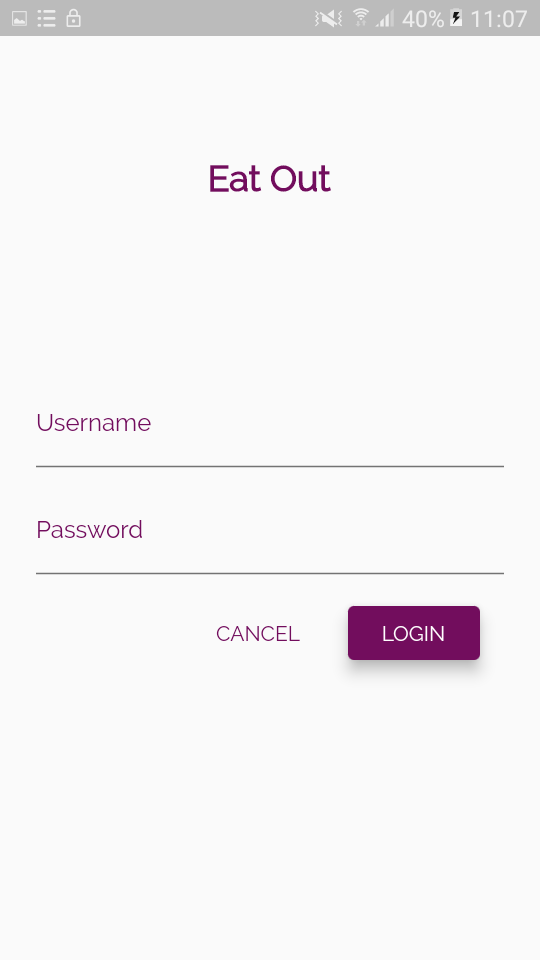
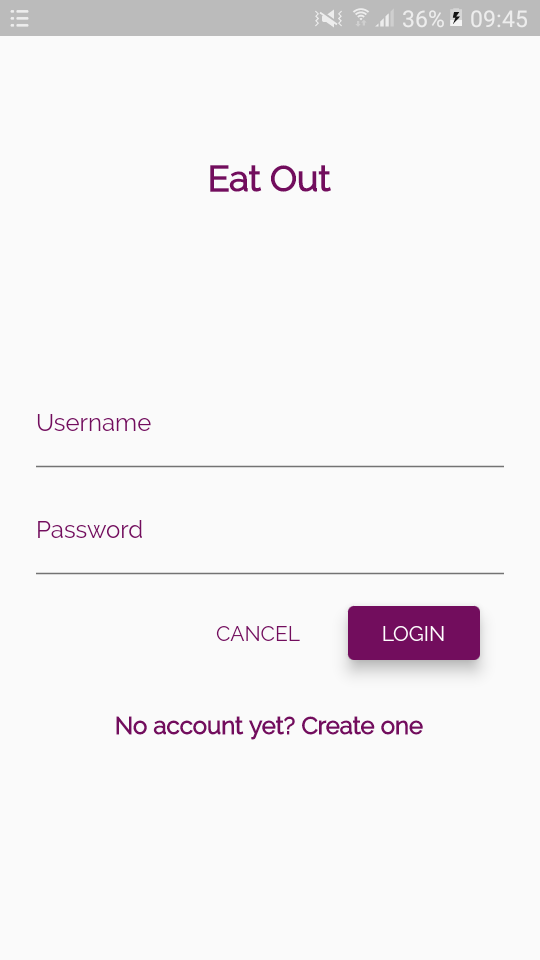
Update readme

diff --git a/lib/src/login.dart b/lib/src/login.dart
@@ -1,5 +1,6 @@
 import 'package:flutter/material.dart';
 import 'colors.dart';
+import 'register.dart';
 
 class LoginPage extends StatefulWidget {
   @override
@@ -87,6 +88,27 @@ class _LoginPageState extends State<LoginPage> {
                   },
                 ),
               ],
+            ),
+            SizedBox(height: 12.0),
+            Center(
+              child: GestureDetector(
+                child: Text(
+                  'No account yet? Create one',
+                  style: TextStyle(
+                    fontWeight: FontWeight.w700,
+                    fontSize: 16.0,
+                    color: cranePurple700,
+                  ),
+                ),
+                onTap: () {
+                  Navigator.push(
+                    context,
+                    MaterialPageRoute(
+                      builder: (context) => Register(),
+                    ),
+                  );
+                },
+              ),
             ),
           ],
         ),

diff --git a/lib/src/model/authentication.dart b/lib/src/model/authentication.dart
@@ -2,7 +2,7 @@ import 'package:firebase_auth/firebase_auth.dart';
 
 class Authentication {
   final FirebaseAuth _auth = FirebaseAuth.instance;
-  void signIn(String email, String password) async {
+  void login(String email, String password) async {
     final FirebaseUser user = await _auth.signInWithEmailAndPassword(
       email: email,
       password: password,
@@ -14,7 +14,7 @@ class Authentication {
     }
   }
 
-  void signUp(String email, String password) async {
+  void register(String email, String password) async {
     final FirebaseUser user = await _auth.createUserWithEmailAndPassword(
       email: email,
       password: password,

diff --git a/lib/src/register.dart b/lib/src/register.dart
@@ -1,0 +1,22 @@
+import 'package:flutter/material.dart';
+
+class Register extends StatefulWidget {
+  @override
+  _RegisterState createState() => _RegisterState();
+}
+
+class _RegisterState extends State<Register> {
+  @override
+  Widget build(BuildContext context) {
+    return Scaffold(
+      body: SafeArea(
+        child: Text('Register'),
+      ),
+      floatingActionButton: FloatingActionButton(
+        onPressed: () {
+          Navigator.pop(context);
+        },
+      ),
+    );
+  }
+}
